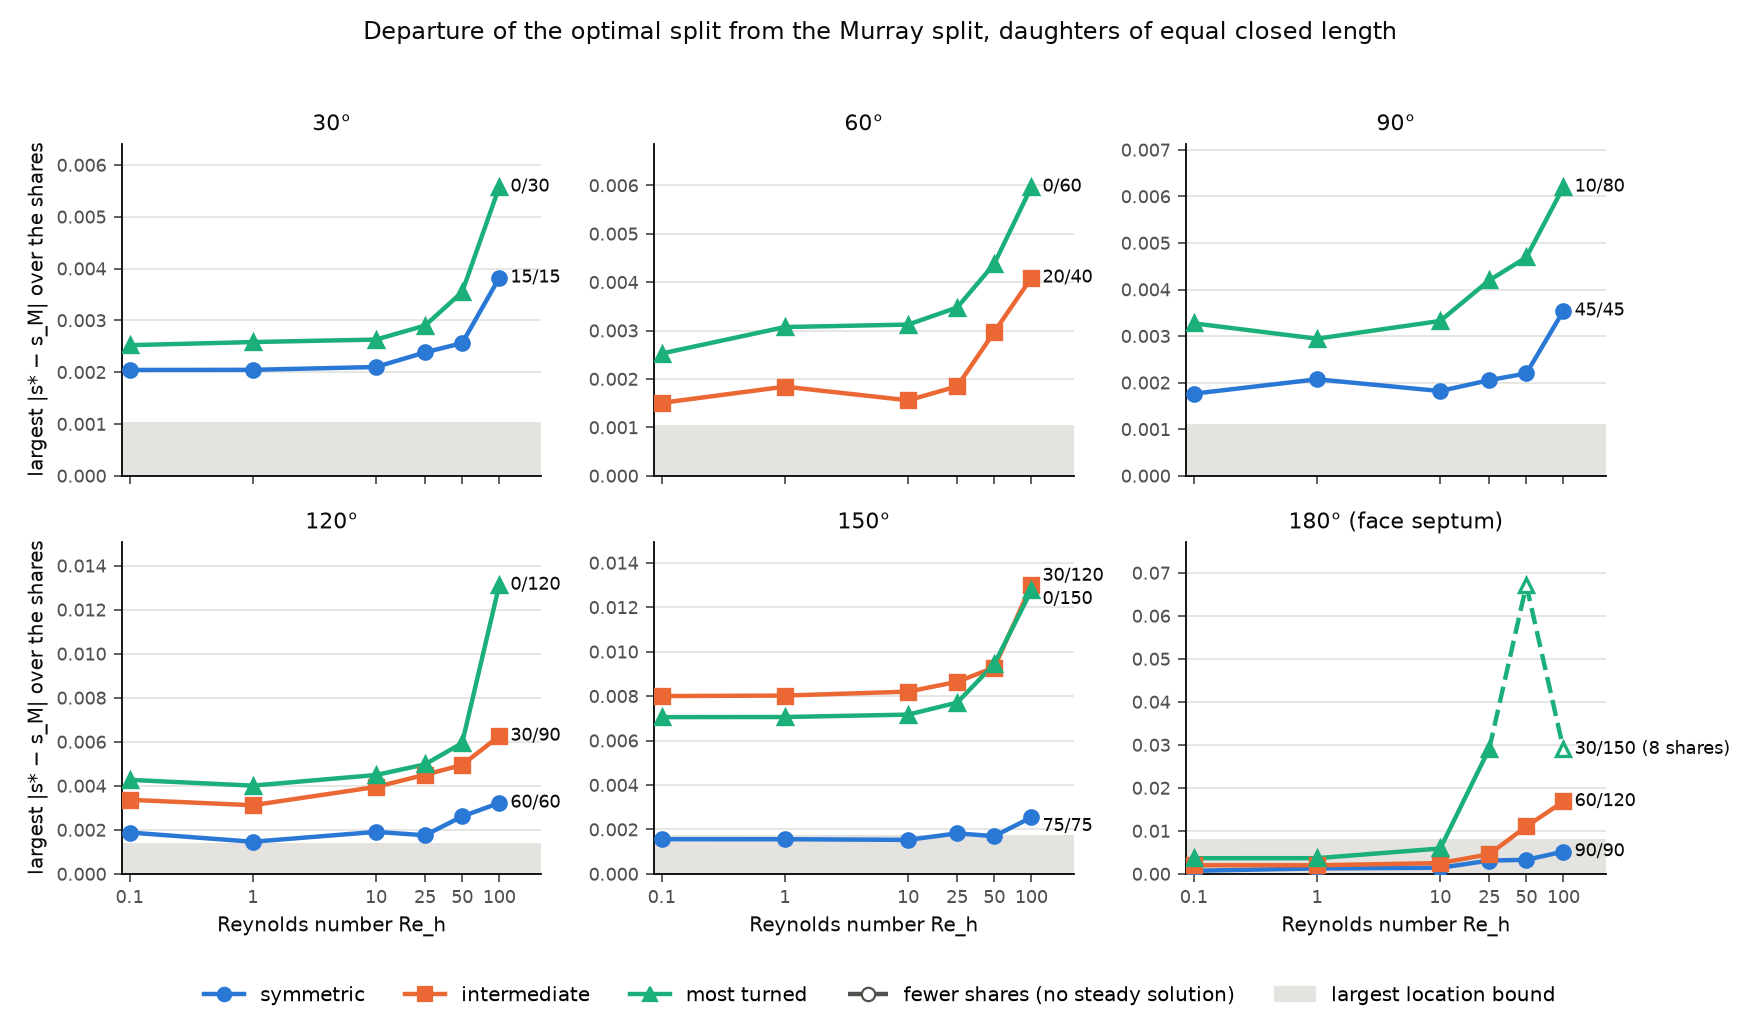
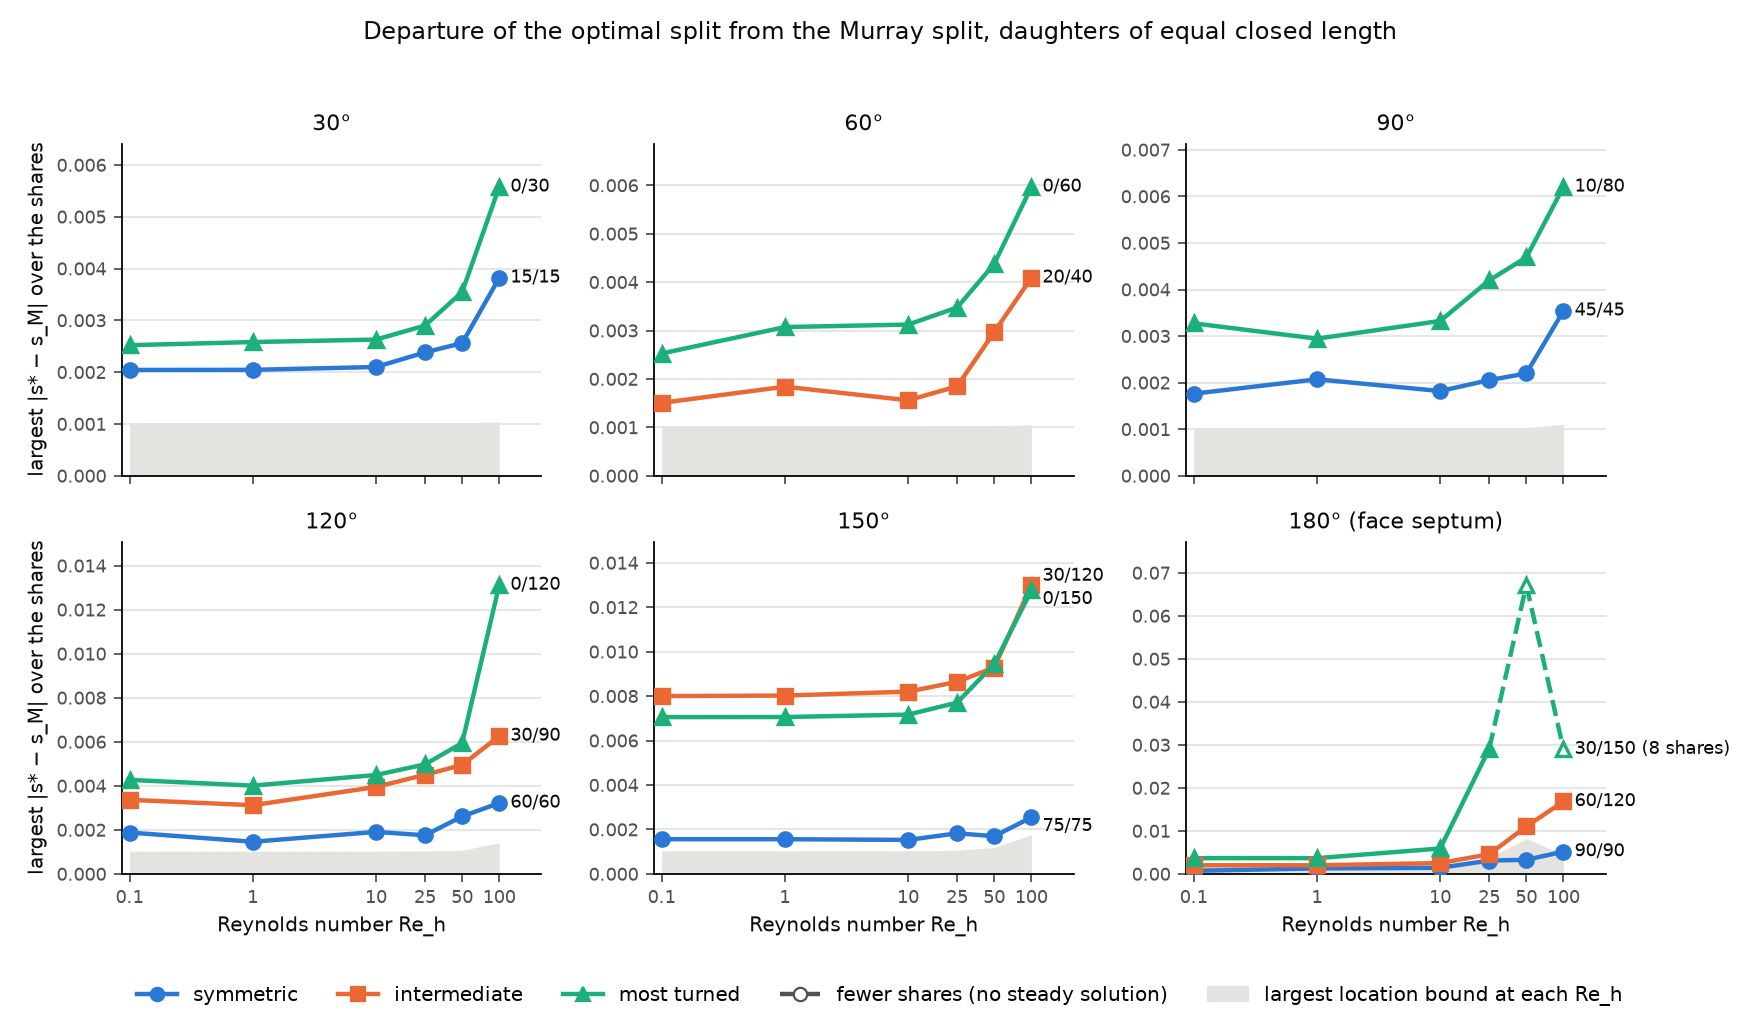
Junction figure: the location band per Re_h; Table 3 numbers; FE J at each PINN optimum
The 180-degree panel's band was 0.0082 high from one case (30/150, q = 0.05,
Re_h 50) and covered every low-Re point; with the band per Reynolds number,
30/150 and 60/120 are resolved at Re_h <= 10, only 90/90 at Re_h 0.1 is not,
and 75/75 is resolved at every Re_h (5-7 of 11 shares).

Run summaries now carry J_FE at the PINN's s* (an independent reference
solve, reproducing the stored regrets) and J_FE at the reference optimum.

Claude-Session: https://claude.ai/code/session_01AbTrWc9Te1W9eJvisv3vV1

diff --git a/bifurcation/junction_re.py b/bifurcation/junction_re.py
@@ -224,8 +224,11 @@ def plot(summary, path):
     res = [m["reynolds"] for m in summary["maps"]]
     tables = [by_layout([r for r in m["records"] if r.get("trusted")]) for m in summary["maps"]]
     for ax, (total, layouts) in zip(axes.ravel(), sorted(roles.items())):
-        bounds = [r["bound"] for t in tables for a, _ in layouts for r in t.get(name(a), [])]
-        ax.axhspan(0.0, max(bounds) if bounds else 0.001, color=BAND, lw=0, zorder=0)
+        # the band is the panel's largest location bound AT EACH Re_h: one hard case at
+        # one Reynolds number (30/150, q = 0.05, Re_h = 50: 0.0082) must not cover the rest
+        band = [max([r["bound"] for a, _ in layouts for r in t.get(name(a), [])] or [0.0])
+                for t in tables]
+        ax.fill_between(res, 0.0, band, color=BAND, lw=0, zorder=0, step=None)
         top, ends = 0.0, []
         for angles, role in layouts:
             xs, ys, counts = [], [], []
@@ -272,7 +275,8 @@ def plot(summary, path):
                for k, c in ROLE_COLOURS.items()]
     handles.append(plt.Line2D([], [], color=MUTED, lw=2, ls="--", marker="o", ms=6,
                               markerfacecolor="white", label="fewer shares (no steady solution)"))
-    handles.append(plt.Rectangle((0, 0), 1, 1, color=BAND, label="largest location bound"))
+    handles.append(plt.Rectangle((0, 0), 1, 1, color=BAND,
+                                 label="largest location bound at each Re_h"))
     fig.legend(handles=handles, loc="lower center", ncol=5, frameon=False, fontsize=9)
     fig.suptitle("Departure of the optimal split from the Murray split, daughters of equal "
                  "closed length", fontsize=11, color=INK)

diff --git a/bifurcation/re_export.py b/bifurcation/re_export.py
@@ -162,6 +162,7 @@ def export(run_directory, out_directory):
         "loss_at_s_star": loss_at_optimum,
         "loss_at_s_star_points": f"{LOSS_AT_OPTIMUM_DESIGNS} x {config.points_per_design} "
                                  f"interior points at s*, stream {LOSS_AT_OPTIMUM_SEED}",
+        "J_fe_at_s_star_pinn": theirs,
         "s_star_reference_mesh_brent": o["reference_split"],
         "J_fe_at_reference_s_star": o["reference_min_drop"],
         "argmin_error": o["argmin_error"], "regret": o["regret"],
@@ -183,9 +184,11 @@ def summary_markdown(name, s):
              f"({s['pressure_scaling']} pressure), seed {s['seed']}.", "",
              f"- PINN optimum s* = {s['s_star_pinn']:.4f} (scan, then Brent), J = "
              f"{s['J_pinn_at_s_star']:.6g}; on the range's bound: {s['s_star_pinn_on_bound']}",
+             f"- finite elements at the PINN's s*: J = {s['J_fe_at_s_star_pinn']:.6g} (reference mesh)",
              f"- loss at s*: {s['loss_at_s_star']:.3e} ({s['loss_at_s_star_points']})",
              f"- reference-mesh optimum (Brent from the evaluation splits): "
-             f"{s['s_star_reference_mesh_brent']:.4f}; argmin error {s['argmin_error']:+.4f}; "
+             f"{s['s_star_reference_mesh_brent']:.4f} (J = {s['J_fe_at_reference_s_star']:.6g}); "
+             f"argmin error {s['argmin_error']:+.4f}; "
              f"regret {100 * s['regret']:+.4f}%", "",
              "| s | u | v | p | drop error |", "|---|---|---|---|---|"]
     for f in s["fields"]:

diff --git a/docs/re_study/table3_closed_maps.md b/docs/re_study/table3_closed_maps.md
@@ -1,0 +1,12 @@
+## Table 3 inputs: the closed-length maps at every Re_h (exact)
+
+From docs/re_study/closed-junction-all.json (bifurcation/junction_re.py). Departure = |s* − s_M|; 'resolved' = beyond its own location bound; Murray regret = J(s_M)/J* − 1. Optima next to a split with no steady solution are left out.
+
+| Re_h | largest departure below 180° (layout) | largest up to 90° (layout) | largest at 180° (layout) | trusted | resolved | resolved in asymmetric layouts widening the more-turned daughter | median Murray regret | max Murray regret (layout) |
+|---|---|---|---|---|---|---|---|---|
+| 0.1 | 0.0080 (30/120, q = 0.9) | 0.0033 (10/80, q = 0.9) | 0.0037 (30/150, q = 0.1) | 165/165 | 83 | 13/62 | 0.0045% | 0.206% (30/150, q = 0.2) |
+| 1 | 0.0080 (30/120, q = 0.9) | 0.0031 (0/60, q = 0.8) | 0.0037 (30/150, q = 0.1) | 165/165 | 81 | 13/61 | 0.0041% | 0.206% (30/150, q = 0.2) |
+| 10 | 0.0082 (30/120, q = 0.9) | 0.0033 (10/80, q = 0.95) | 0.0059 (30/150, q = 0.05) | 165/165 | 91 | 16/65 | 0.0047% | 0.209% (30/120, q = 0.9) |
+| 25 | 0.0086 (30/120, q = 0.9) | 0.0042 (10/80, q = 0.7) | 0.0291 (30/150, q = 0.1) | 165/165 | 104 | 22/76 | 0.0066% | 0.796% (30/150, q = 0.1) |
+| 50 | 0.0094 (0/150, q = 0.1) | 0.0047 (10/80, q = 0.9) | 0.0672 (30/150, q = 0.05) | 164/165 | 130 | 28/89 | 0.0131% | 0.921% (30/150, q = 0.05) |
+| 100 | 0.0131 (0/120, q = 0.1) | 0.0062 (10/80, q = 0.8) | 0.0290 (30/150, q = 0.4) | 162/165 | 132 | 25/91 | 0.0248% | 1.225% (30/150, q = 0.3) |

diff --git a/docs/re_study/pinn_30-90_Re10_seed21_summary.md b/docs/re_study/pinn_30-90_Re10_seed21_summary.md
@@ -3,8 +3,9 @@
 Layout 30/90, Re_h = 10 (inertial pressure), seed 21.
 
 - PINN optimum s* = 0.4862 (scan, then Brent), J = 4.03557; on the range's bound: False
+- finite elements at the PINN's s*: J = 4.03597 (reference mesh)
 - loss at s*: 7.959e-04 (4 x 1024 interior points at s*, stream 2026)
-- reference-mesh optimum (Brent from the evaluation splits): 0.4848; argmin error +0.0014; regret +0.0035%
+- reference-mesh optimum (Brent from the evaluation splits): 0.4848 (J = 4.03583); argmin error +0.0014; regret +0.0035%
 
 | s | u | v | p | drop error |
 |---|---|---|---|---|
@@ -17,4 +18,4 @@ Layout 30/90, Re_h = 10 (inertial pressure), seed 21.
 | 0.65 | 4.01e-03 | 3.90e-03 | 1.21e-02 | -1.149% |
 | 0.4862 (s*) | 1.52e-03 | 1.42e-03 | 2.55e-03 | -0.010% |
 
-Training: 176 min, final training loss 8.170e-04, selected lm_average:147 with held-out loss 9.154e-04; converged: False (finished, every loss finite, and the best held-out loss of the last 25 LM steps not more than 10% below the best before them)
+Training: 176 min, final training loss 8.170e-04, selected lm_average:147 with held-out loss 9.154e-04; converged: no: the held-out loss was still falling when the fixed schedule ended (definition: finished, every loss finite, and the best held-out loss of the last 25 LM steps not more than 10% below the best before them)

diff --git a/docs/re_study/pinn_30-90_Re100_seed21_summary.md b/docs/re_study/pinn_30-90_Re100_seed21_summary.md
@@ -3,8 +3,9 @@
 Layout 30/90, Re_h = 100 (inertial pressure), seed 21.
 
 - PINN optimum s* = 0.4838 (scan, then Brent), J = 0.452993; on the range's bound: False
+- finite elements at the PINN's s*: J = 0.454799 (reference mesh)
 - loss at s*: 1.452e-04 (4 x 1024 interior points at s*, stream 2026)
-- reference-mesh optimum (Brent from the evaluation splits): 0.4889; argmin error -0.0050; regret +0.0421%
+- reference-mesh optimum (Brent from the evaluation splits): 0.4889 (J = 0.454608); argmin error -0.0050; regret +0.0421%
 
 | s | u | v | p | drop error |
 |---|---|---|---|---|

diff --git a/docs/re_study/pinn_30-120_Re10_seed21_summary.md b/docs/re_study/pinn_30-120_Re10_seed21_summary.md
@@ -3,8 +3,9 @@
 Layout 30/120, Re_h = 10 (inertial pressure), seed 21.
 
 - PINN optimum s* = 0.3500 (scan, then Brent), J = 3.15109; on the range's bound: True
+- finite elements at the PINN's s*: J = 3.15661 (reference mesh)
 - loss at s*: 3.171e-03 (4 x 1024 interior points at s*, stream 2026)
-- reference-mesh optimum (Brent from the evaluation splits): 0.3500; argmin error +0.0000; regret +0.0000%
+- reference-mesh optimum (Brent from the evaluation splits): 0.3500 (J = 3.15661); argmin error +0.0000; regret +0.0000%
 
 | s | u | v | p | drop error |
 |---|---|---|---|---|

diff --git a/docs/re_study/pinn_30-90_Re0.1_seed21_summary.md b/docs/re_study/pinn_30-90_Re0.1_seed21_summary.md
@@ -3,8 +3,9 @@
 Layout 30/90, Re_h = 0.1 (viscous pressure), seed 21.
 
 - PINN optimum s* = 0.4870 (scan, then Brent), J = 40.1926; on the range's bound: False
+- finite elements at the PINN's s*: J = 40.0962 (reference mesh)
 - loss at s*: 9.663e-02 (4 x 1024 interior points at s*, stream 2026)
-- reference-mesh optimum (Brent from the evaluation splits): 0.4843; argmin error +0.0026; regret +0.0115%
+- reference-mesh optimum (Brent from the evaluation splits): 0.4843 (J = 40.0915); argmin error +0.0026; regret +0.0115%
 
 | s | u | v | p | drop error |
 |---|---|---|---|---|
